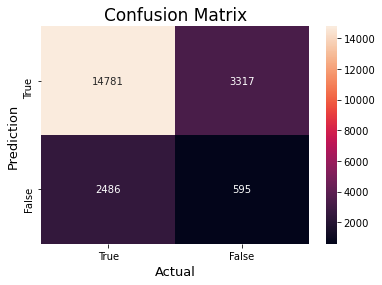
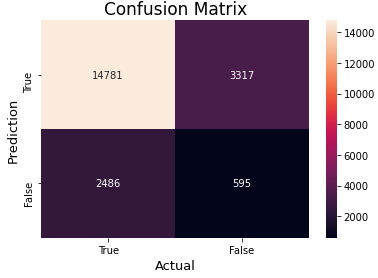
fix confusion matrix image not showing in readme, add return only section to readme

diff --git a/README.md b/README.md
@@ -76,9 +76,41 @@ The thing that needs to be addressed with the target variable is the idea of an 
 
 ![](/images/target_variable.PNG)
 
+## Returned Items Only
+
+We also looked at the distributions for each column where the returned value is true. We found that the distributions in each column in the overall dataset and subset where returned is true are exteremely similar.
+
+### Age
+
+![](/images/r_age.PNG)
+
+### Gender
+
+![](/images/r_gender.PNG)
+
+### Payment Method
+
+![](/images/r_payment_methods.PNG)
+
+### Membership Type
+
+![](/images/r_membership_types.PNG)
+
+### Languages
+
+![](/images/r_language.PNG)
+
+### Access Methods
+
+![](/images/r_access_method.PNG)
+
+### Countries
+
+![](/images/r_country.PNG)
+
 ## Imbalanced Data and Solutions
 
-Our target variable being imbalanced brings a few problems; possibility of bias toward the majority class, resulting in poor performance on the minority class, metrics such as accuracy can be misleading as high accuracy can be achieved by predicting the majority class, and the model may focus more on features that help distinguish the majority class, neglecting features important for minority class prediction.
+As mentioned earlier, our target variable being imbalanced brings a few problems; possibility of bias toward the majority class, resulting in poor performance on the minority class, metrics such as accuracy can be misleading as high accuracy can be achieved by predicting the majority class, and the model may focus more on features that help distinguish the majority class, neglecting features important for minority class prediction.
 
 ![](/images/returned_nonreturned_barchart.png)
 
@@ -122,7 +154,7 @@ In the ROC curve, we can see that the training is overfitting and the test set i
 
 In the confusion matrix, it can contribute to the idea the model is being biased to predicting non-returned items as proposed by our imblanced data problem.
 
-![](/images/confusion_matrix.PNG)
+![](/images/confusion_matrix.png)
 
 The precion and recall table also contrinbutes to this idea as the proportions of predicting 0 (non-returned) as better than 1 (returned)
 
